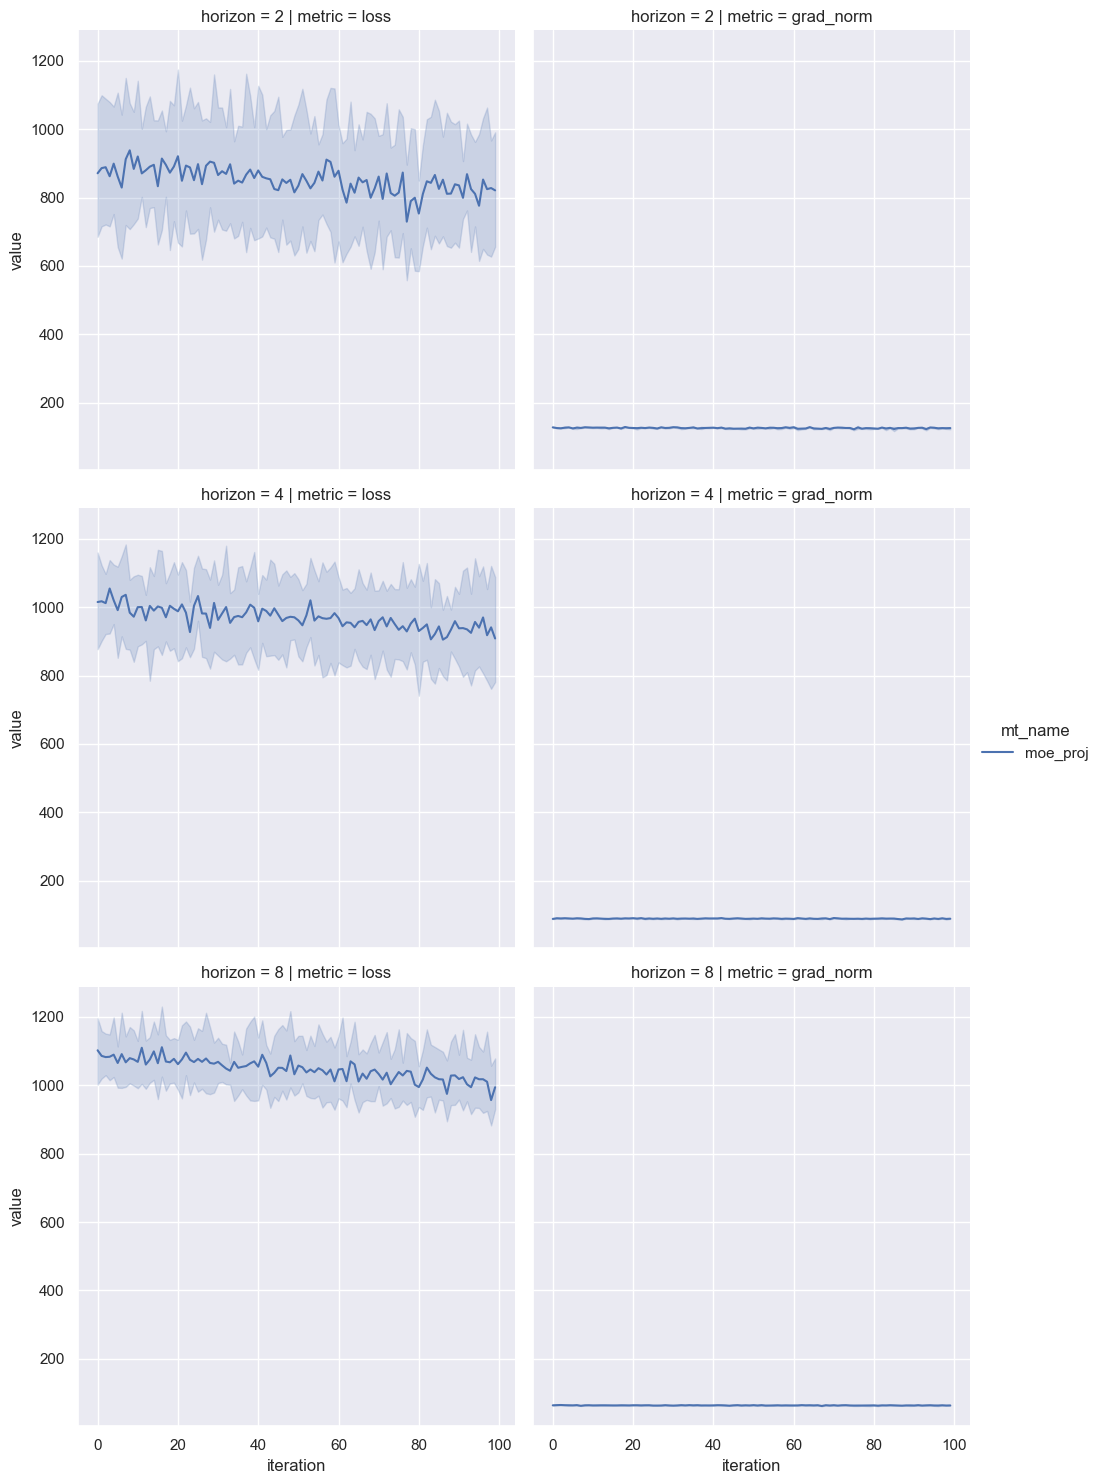
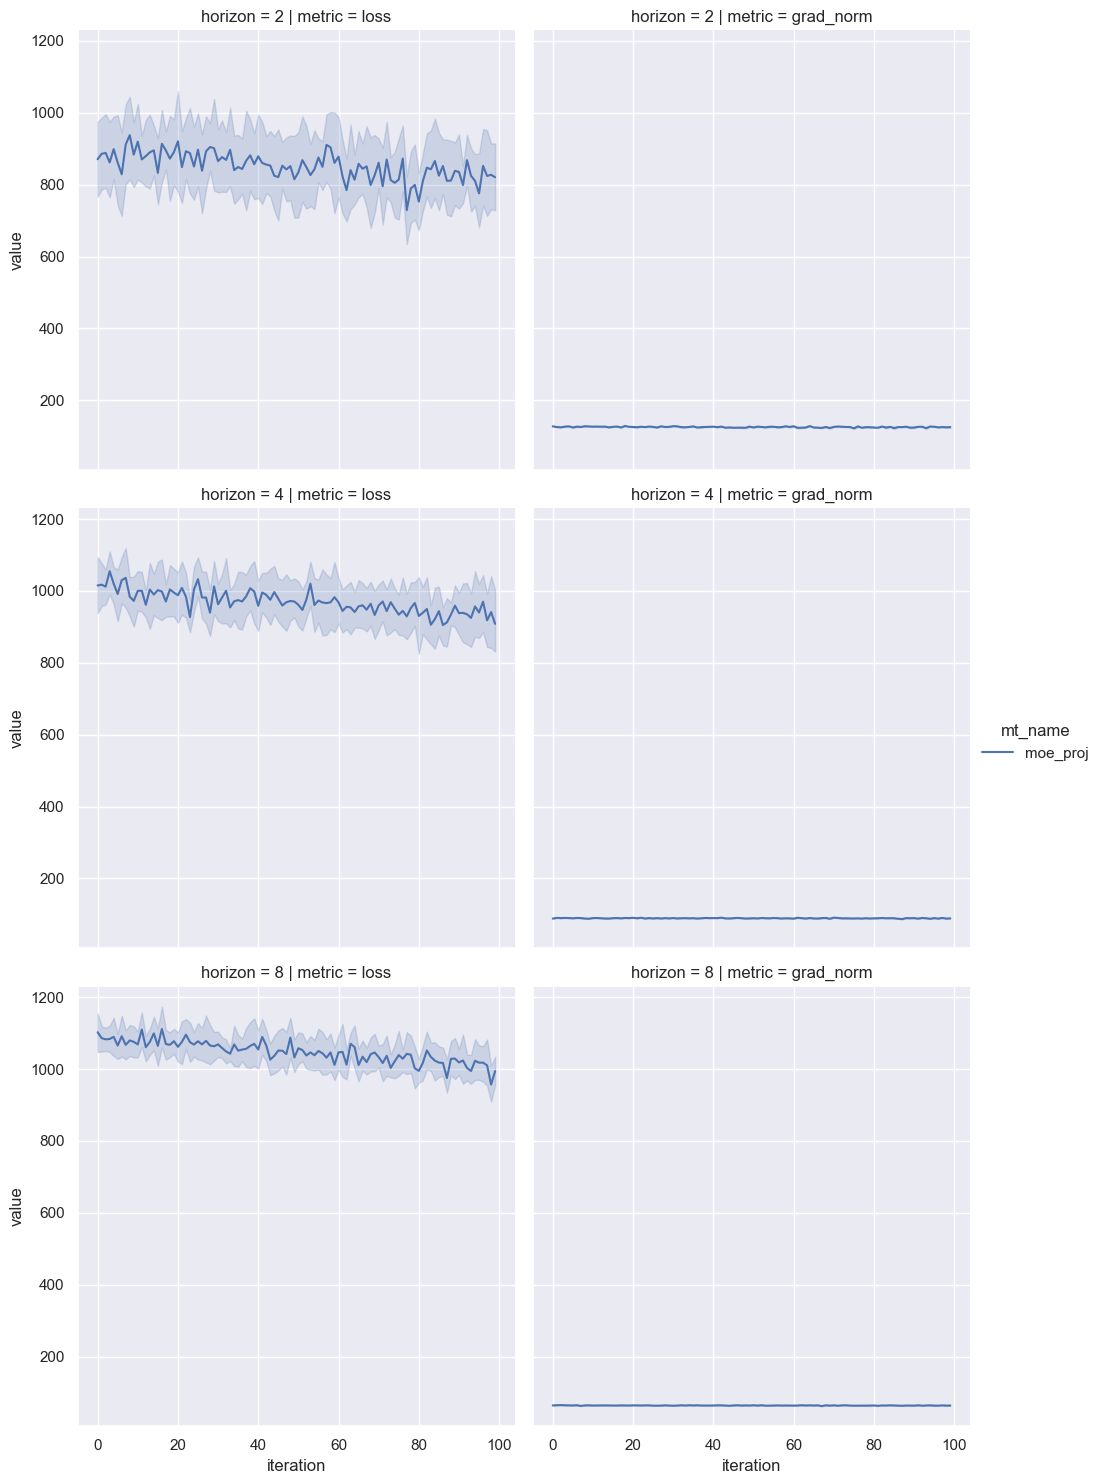
Bugfix: moe

diff --git a/scripts/train_mheads.py b/scripts/train_mheads.py
@@ -13,7 +13,7 @@ sns.set_theme()
 
 
 def run_train(
-    mt_name, batch_size, horizon, rank, d_model, d_output, add_loss_dict=False
+    mt_name, batch_size, horizon, rank, d_model, d_output, add_loss_dict=False, lr=1e-3
 ):
     """Test if CP distribution can recover a target distribution on small scale."""
     import torch.optim as optim
@@ -33,7 +33,7 @@ def run_train(
 
     log_dict = defaultdict(list)
 
-    optimizer = optim.AdamW(mt_head.parameters(), lr=1e-3)
+    optimizer = optim.AdamW(mt_head.parameters(), lr=lr)
     for i in range(n_iters):
         optimizer.zero_grad()
 
@@ -108,19 +108,20 @@ def plot_training_metrics(
 
 
 if __name__ == "__main__":
+    lr = 1e-4
     configs = (
-        # [
-        #     {
-        #         "mt_name": "moe",
-        #         "batch_size": 32,
-        #         "horizon": h,
-        #         "rank": r,
-        #         "d_model": 512,
-        #         "d_output": 100,
-        #     }
-        #     for r, h in itertools.product([2, 4, 8], [2, 4, 8])
-        # ]
         [
+            {
+                "mt_name": "moe",
+                "batch_size": 32,
+                "horizon": h,
+                "rank": r,
+                "d_model": 512,
+                "d_output": 100,
+            }
+            for r, h in itertools.product([2, 4, 8], [2, 4, 8])
+        ]
+        + [
             {
                 "mt_name": "moe_proj",
                 "batch_size": 32,
@@ -131,23 +132,34 @@ if __name__ == "__main__":
             }
             for r, h in itertools.product([2, 4, 8], [2, 4, 8])
         ]
-        # + [
-        #     {
-        #         "mt_name": "cp",
-        #         "batch_size": 32,
-        #         "horizon": h,
-        #         "rank": r,
-        #         "d_model": 512,
-        #         "d_output": 100,
-        #     }
-        #     for r, h in itertools.product([2, 4, 8], [2, 4, 8])
-        # ]
+        + [
+            {
+                "mt_name": "cp",
+                "batch_size": 32,
+                "horizon": h,
+                "rank": r,
+                "d_model": 512,
+                "d_output": 100,
+            }
+            for r, h in itertools.product([2, 4, 8], [2, 4, 8])
+        ]
+        + [
+            {
+                "mt_name": "multihead",
+                "batch_size": 32,
+                "horizon": h,
+                "rank": 1,
+                "d_model": 512,
+                "d_output": 100,
+            }
+            for h in [2, 4, 8]
+        ]
     )
 
     log_dicts = []
     for config in configs:
-        log_dict = run_train(**config)
+        log_dict = run_train(**config, lr=lr)
         log_dicts.append(log_dict)
 
     # concat all log_dicts into a single dataframe
-    plot_training_metrics(log_dicts)
+    plot_training_metrics(log_dicts, save_path=f"results/plots/train_mhead_lr{lr}.png")

diff --git a/mtp/mheads/moe.py b/mtp/mheads/moe.py
@@ -77,7 +77,7 @@ class MoE(AbstractDisributionHead):
         )
 
         # === params
-        self._w_alpha = torch.nn.Linear(D, R)
+        self.w_alpha = torch.nn.Linear(D, R)
         self.cp_params = torch.nn.Parameter(torch.randn(R, H, D))
         self.decoder = torch.nn.Parameter(torch.randn(V, D))
 
